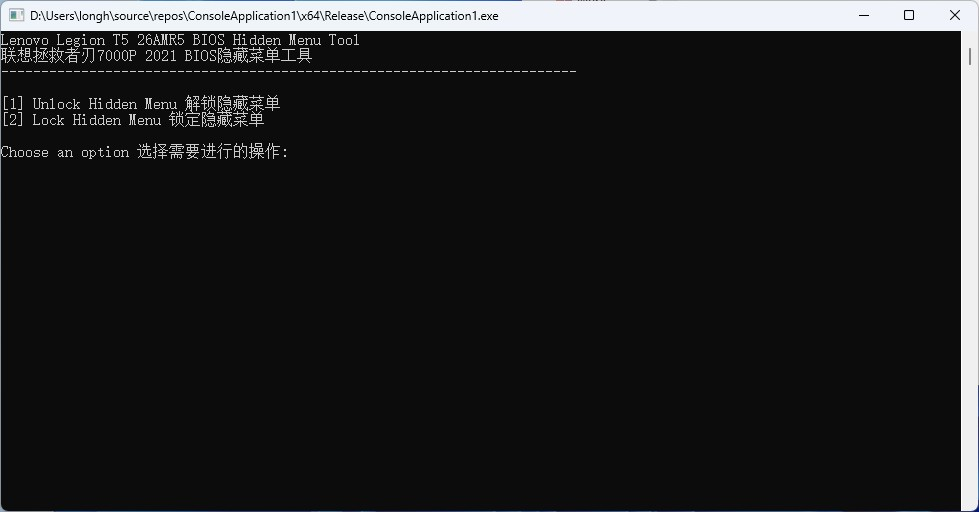
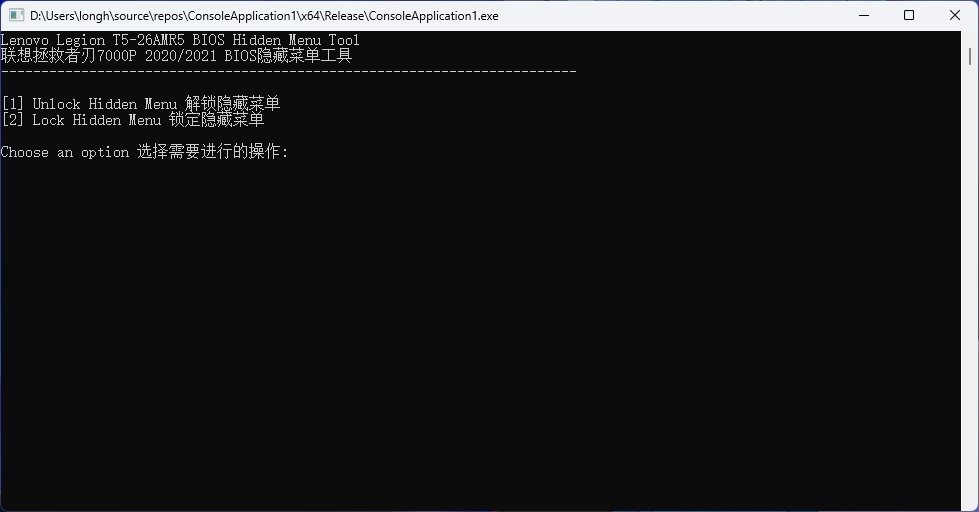
update

diff --git a/README_zh.md b/README_zh.md
@@ -1,12 +1,15 @@
-# 拯救者刃7000P 2021（海外T5 26AMR5）解锁BIOS隐藏菜单
+# 拯救者刃7000P 26AMR（2020/2021）解锁BIOS隐藏菜单
 
 - 基于 https://github.com/CalvinXu17/Lenovo-7000k-Unlock-BIOS 修改并做了一些翻译（虽然很草）
 
-## 支持机型
-- 拯救者刃7000P 2021（AMD B550芯片组，海外版为Legion T5 26AMR5）
+- [联想拯救者B550主板调教指南](https://longhorn3683.github.io/2025/11/11/%E8%81%94%E6%83%B3%E6%8B%AF%E6%95%91%E8%80%85B550%E4%B8%BB%E6%9D%BF%E8%B0%83%E6%95%99%E6%8C%87%E5%8D%97/)
 
-## 能解锁什么
-众所周知，品牌机的BIOS基本都非常简陋，选项非常少，可玩性非常低。解锁隐藏菜单后可以调整很多参数，比如超频（手动超频、PBO等）。
+## 支持机型
+- 拯救者刃7000P 26AMR（2020/2021）（芯片组AMD B550，海外版为Legion T5 26AMR5）
+
+## 特性
+解锁BIOS隐藏菜单，如
+- 超频（手动超频、PBO等）
 
 ## 如何使用
 - 在 [Releases](https://github.com/Longhorn3683/Legion-T5-26AMR5-Unlock/releases) 下载文件，以管理员身份运行

diff --git a/README.md b/README.md
@@ -1,11 +1,13 @@
 # [跳转中文版](./README_zh.md)
 
-# Legion T5 26AMR5 (REN7000P 2021) Unlock BIOS Hidden Menu
+# Legion T5 26AMR5 Unlock BIOS Hidden Menu
 
 - Forked from https://github.com/CalvinXu17/Lenovo-7000k-Unlock-BIOS and translated some content
 
+- [Legion B550 Motherboard Tutorial (Chinese)](https://longhorn3683.github.io/2025/11/11/%E8%81%94%E6%83%B3%E6%8B%AF%E6%95%91%E8%80%85B550%E4%B8%BB%E6%9D%BF%E8%B0%83%E6%95%99%E6%8C%87%E5%8D%97/)
+
 ## Supported model
-- Legion T5 26AMR5 / REN7000P 2021 (刃7000P 2021)
+- Legion T5 26AMR5 / REN7000P 26AMR (刃7000P 2020/2021)
 
 ## What can be unlocked
 Generally, there are very few options in OEM's BIOS. After unlocking hidden menu, many parameters can be adjusted, such as overclocking (Manual Overclocking, PBO, etc.).
